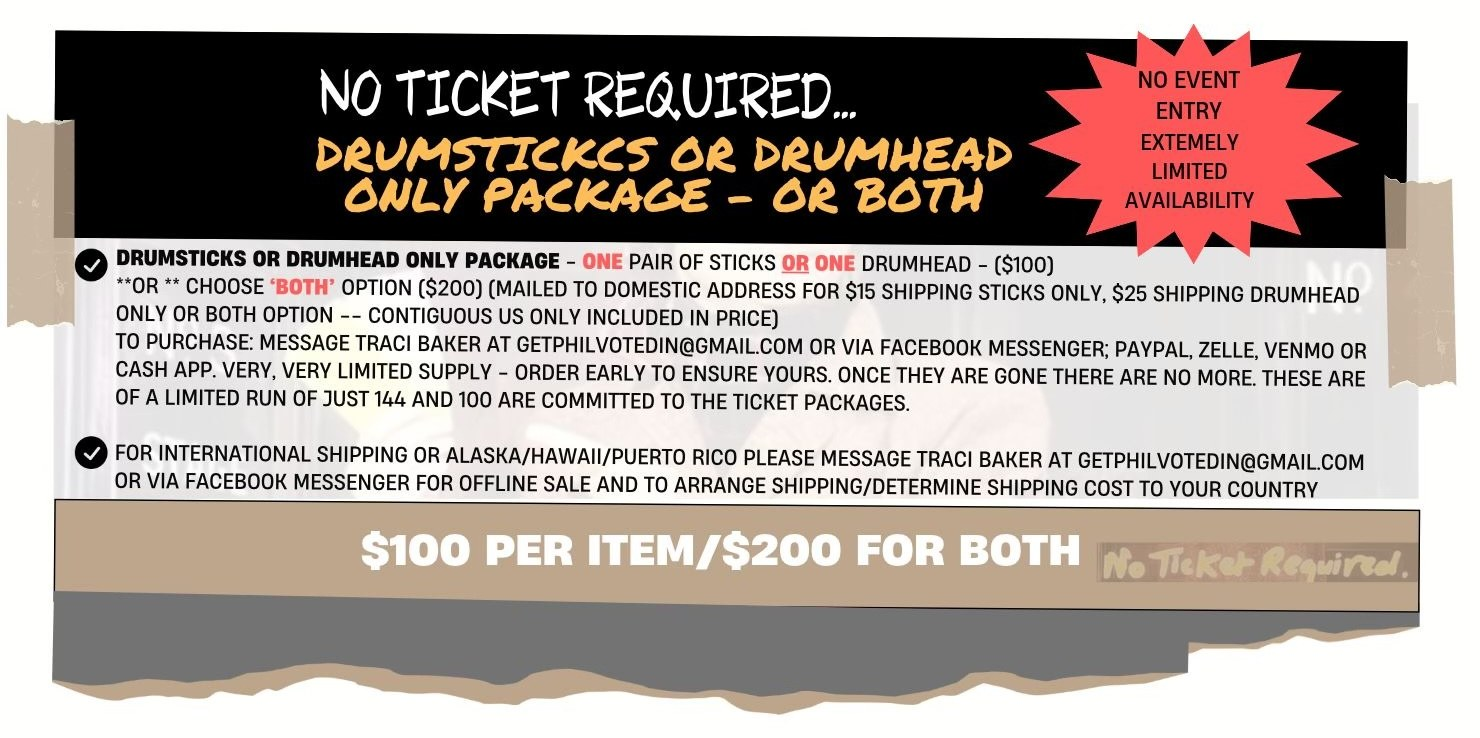
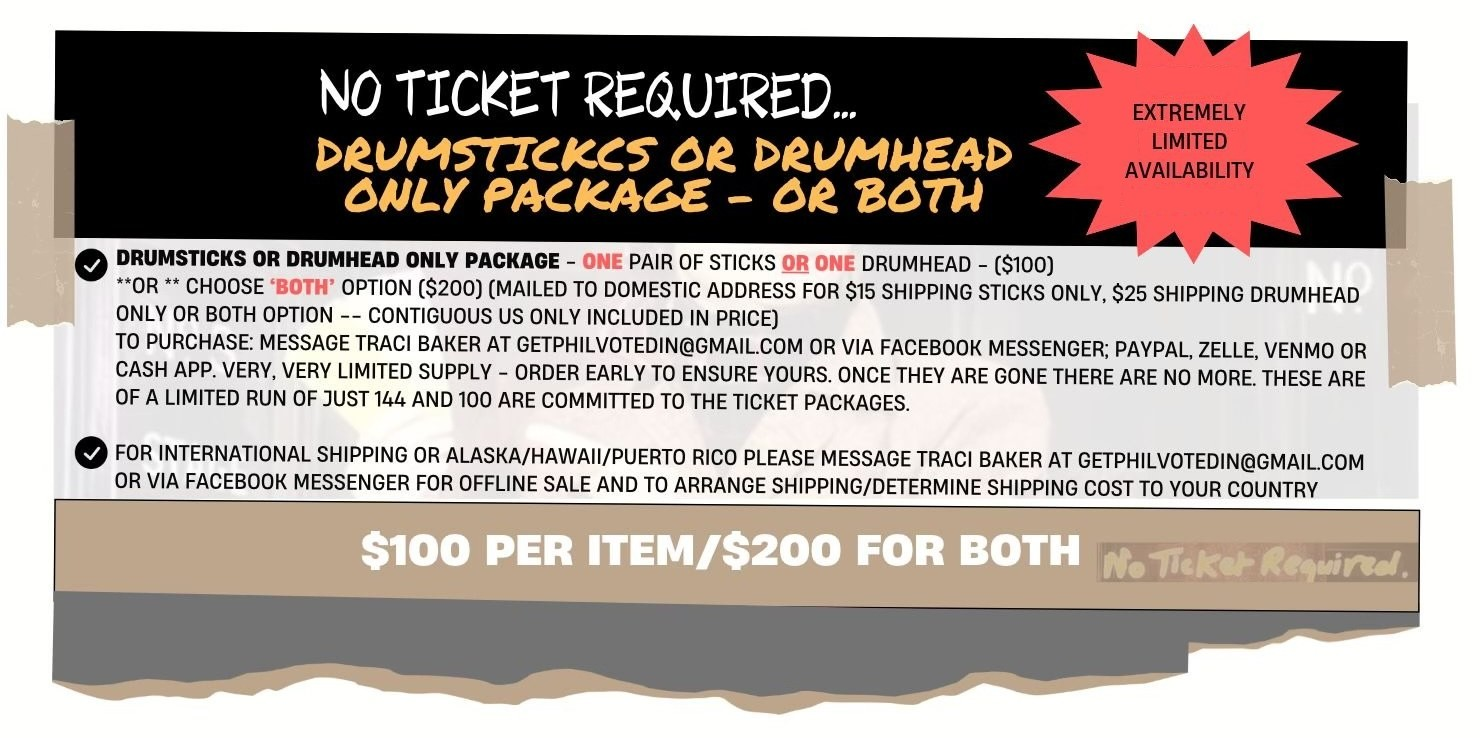
Got Phil Voted In: remove event-entry lines from the package card graphics
- Card 2: "Collectible laminate for entry to event" -> "Collectible laminate"
- Card 3: drop the "Entry to the fan event" bullet, move the left column up
- Card 4: "Entry to the fan event" bullet now reads "Event-logoed backpack",
  set from the card's own lettering
- Card 5: starburst loses "No event entry" (and EXTEMELY -> EXTREMELY)
- Bump ?v= on the changed cards so cached copies refresh

Changed region(s): [[0.7459, 0.0935, 0.8703, 0.2805]]

diff --git a/gotphilvotedin/index.html b/gotphilvotedin/index.html
@@ -221,9 +221,9 @@ footer a:hover{color:var(--accent)}
     </div>
   </article>
   <article class="tile t2">
-    <button class="art" type="button" data-full="/gotphilvotedin/img/package-2.jpg" aria-label="View full Hello, I Must Be Going&hellip; package card">
+    <button class="art" type="button" data-full="/gotphilvotedin/img/package-2.jpg?v=2" aria-label="View full Hello, I Must Be Going&hellip; package card">
       <span class="badge ">VIP &middot; Very limited</span>
-      <img src="/gotphilvotedin/img/package-2.jpg" alt="Hello, I Must Be Going&hellip; package card">
+      <img src="/gotphilvotedin/img/package-2.jpg?v=2" alt="Hello, I Must Be Going&hellip; package card">
       <span class="zoom"><svg viewBox="0 0 24 24"><circle cx="11" cy="11" r="7"/><path d="M21 21l-4.3-4.3M11 8v6M8 11h6"/></svg>Full details</span>
     </button>
     <div class="body">
@@ -234,9 +234,9 @@ footer a:hover{color:var(--accent)}
     </div>
   </article>
   <article class="tile t3">
-    <button class="art" type="button" data-full="/gotphilvotedin/img/package-3.jpg" aria-label="View full No Jacket Required package card">
+    <button class="art" type="button" data-full="/gotphilvotedin/img/package-3.jpg?v=2" aria-label="View full No Jacket Required package card">
       <span class="badge ">Fan Package Plus</span>
-      <img src="/gotphilvotedin/img/package-3.jpg" alt="No Jacket Required package card">
+      <img src="/gotphilvotedin/img/package-3.jpg?v=2" alt="No Jacket Required package card">
       <span class="zoom"><svg viewBox="0 0 24 24"><circle cx="11" cy="11" r="7"/><path d="M21 21l-4.3-4.3M11 8v6M8 11h6"/></svg>Full details</span>
     </button>
     <div class="body">
@@ -247,9 +247,9 @@ footer a:hover{color:var(--accent)}
     </div>
   </article>
   <article class="tile t4">
-    <button class="art" type="button" data-full="/gotphilvotedin/img/package-4.jpg?v=2" aria-label="View full But Seriously&hellip; package card">
+    <button class="art" type="button" data-full="/gotphilvotedin/img/package-4.jpg?v=3" aria-label="View full But Seriously&hellip; package card">
       <span class="badge ">Fan Package</span>
-      <img src="/gotphilvotedin/img/package-4.jpg?v=2" alt="But Seriously&hellip; package card">
+      <img src="/gotphilvotedin/img/package-4.jpg?v=3" alt="But Seriously&hellip; package card">
       <span class="zoom"><svg viewBox="0 0 24 24"><circle cx="11" cy="11" r="7"/><path d="M21 21l-4.3-4.3M11 8v6M8 11h6"/></svg>Full details</span>
     </button>
     <div class="body">
@@ -261,9 +261,9 @@ footer a:hover{color:var(--accent)}
   </article>
 
   <article class="tile wide" data-go="Email Traci to order &rarr;">
-    <button class="art" type="button" data-full="/gotphilvotedin/img/package-5.jpg" aria-label="View full No Ticket Required package card">
+    <button class="art" type="button" data-full="/gotphilvotedin/img/package-5.jpg?v=2" aria-label="View full No Ticket Required package card">
       <span class="badge">Collectors only</span>
-      <img src="/gotphilvotedin/img/package-5.jpg" alt="No Ticket Required package card">
+      <img src="/gotphilvotedin/img/package-5.jpg?v=2" alt="No Ticket Required package card">
       <span class="zoom"><svg viewBox="0 0 24 24"><circle cx="11" cy="11" r="7"/><path d="M21 21l-4.3-4.3M11 8v6M8 11h6"/></svg>Full details</span>
     </button>
     <div class="body">
